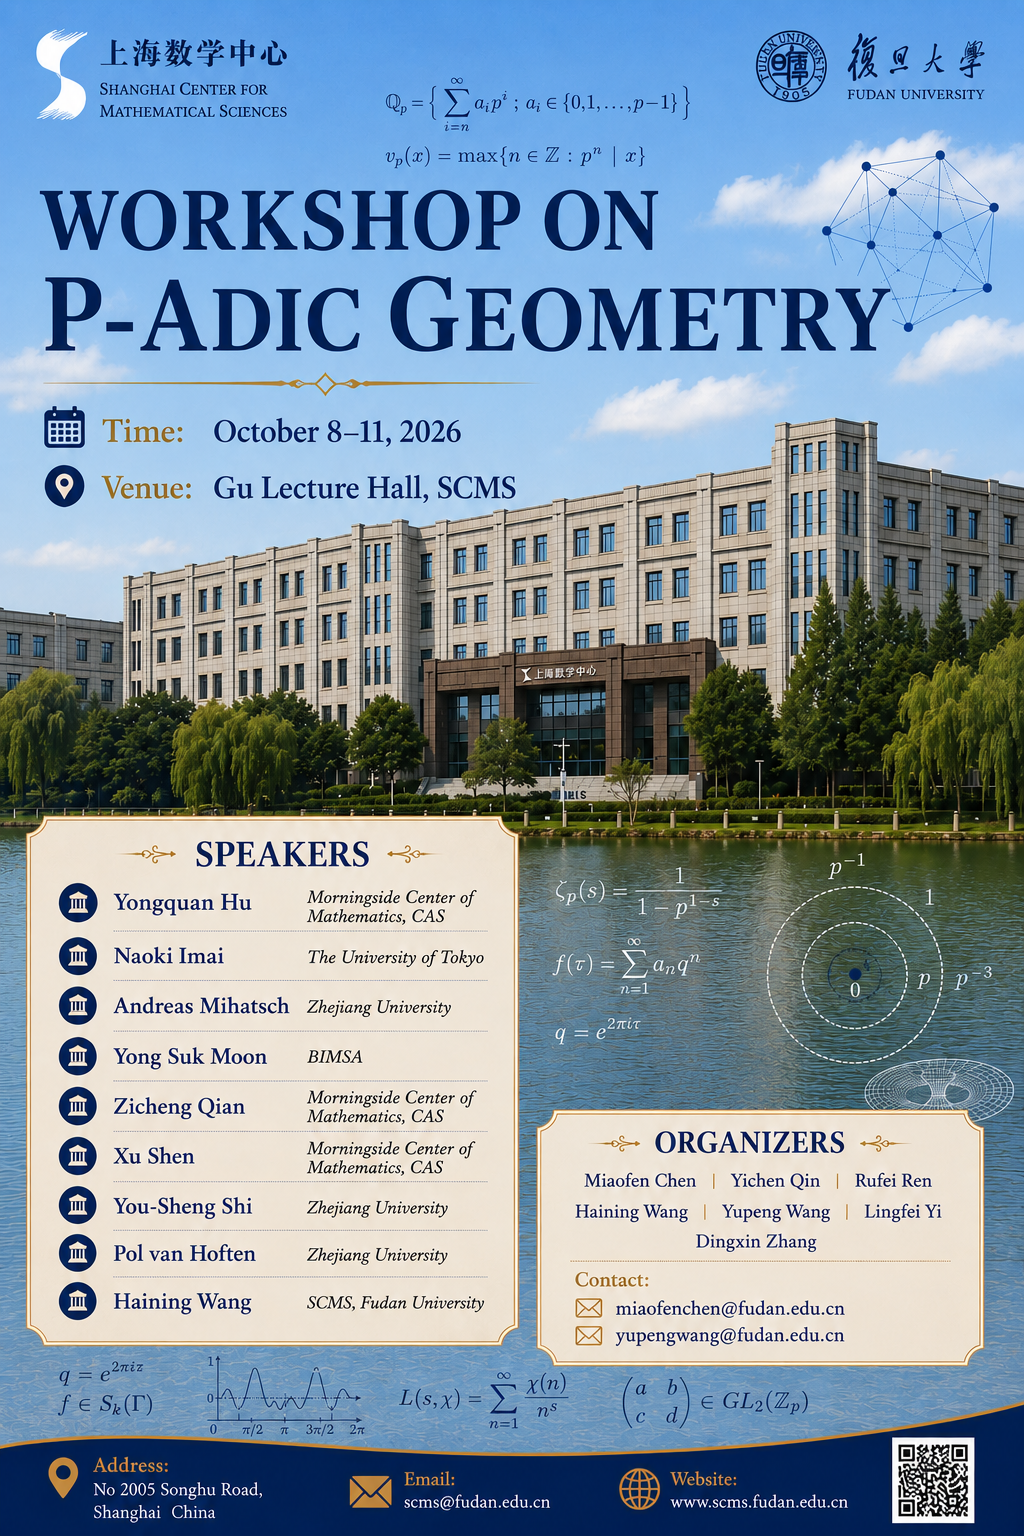
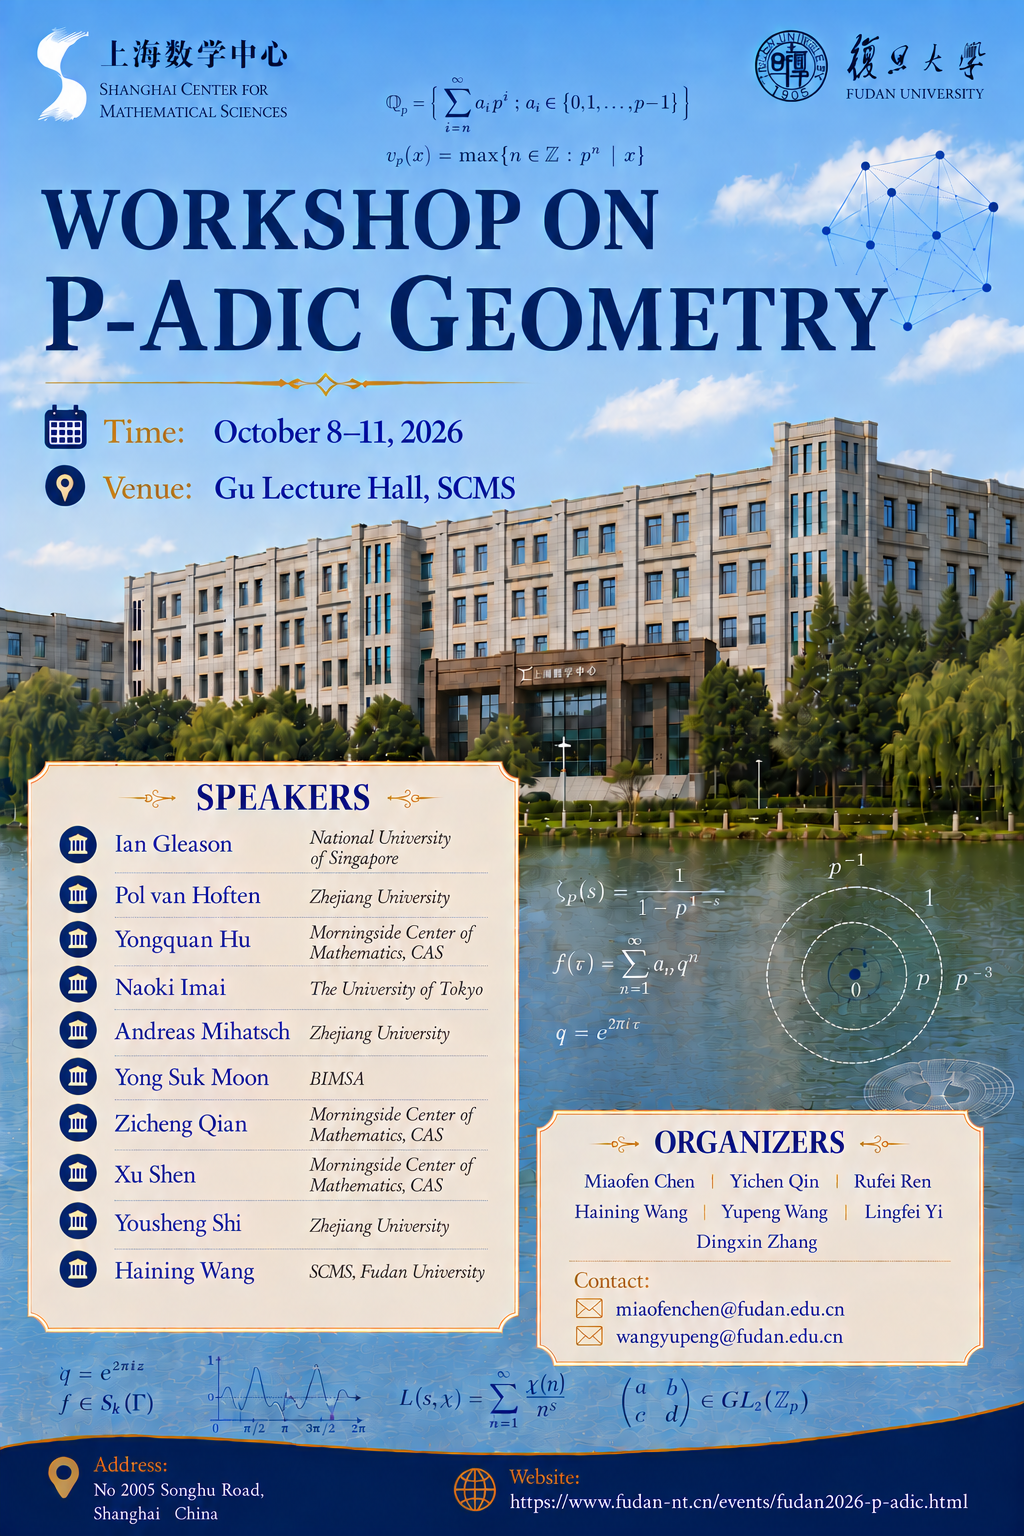
Update p-adic geometry workshop poster

diff --git a/events/event.html b/events/event.html
@@ -288,7 +288,7 @@
 	    </div>
 	    <div class="event-description">
 		<p><strong>2026 Fudan Workshop on p-adic Geometry</strong></p>
-		<p>邀请报告人：Ian Gleason（新加坡国立大学）、Yongquan Hu（晨兴数学中心）、Pol van Hoften（浙江大学）、Naoki Imai（东京大学）、Andreas Mihatsch（浙江大学）、Yong Suk Moon（BIMSA）、Zicheng Qian（晨兴数学中心）、Xu Shen（晨兴数学中心）、Yousheng Shi（浙江大学）、Haining Wang（复旦大学上海数学中心）</p>
+		<p>邀请报告人：Ian Gleason（新加坡国立大学）、Pol van Hoften（浙江大学）、Yongquan Hu（晨兴数学中心）、Naoki Imai（东京大学）、Andreas Mihatsch（浙江大学）、Yong Suk Moon（BIMSA）、Zicheng Qian（晨兴数学中心）、Xu Shen（晨兴数学中心）、Yousheng Shi（浙江大学）、Haining Wang（复旦大学上海数学中心）</p>
 	    </div>
 	</div>
 

diff --git a/events/fudan2026-p-adic.html b/events/fudan2026-p-adic.html
@@ -295,13 +295,13 @@
 	    <div class="speaker-affiliation">National University of Singapore</div>
 	</div>
 	<div class="speaker-item">
-	    <div class="speaker-name">Yongquan Hu</div>
-	    <div class="speaker-affiliation">Morningside Center of Mathematics, CAS</div>
-	</div>
-	<div class="speaker-item">
 	    <div class="speaker-name">Pol van Hoften</div>
 	    <div class="speaker-affiliation">Zhejiang University</div>
 	</div>	
+	<div class="speaker-item">
+	    <div class="speaker-name">Yongquan Hu</div>
+	    <div class="speaker-affiliation">Morningside Center of Mathematics, CAS</div>
+	</div>
 	<div class="speaker-item">
 	    <div class="speaker-name">Naoki Imai</div>
 	    <div class="speaker-affiliation">The University of Tokyo</div>
